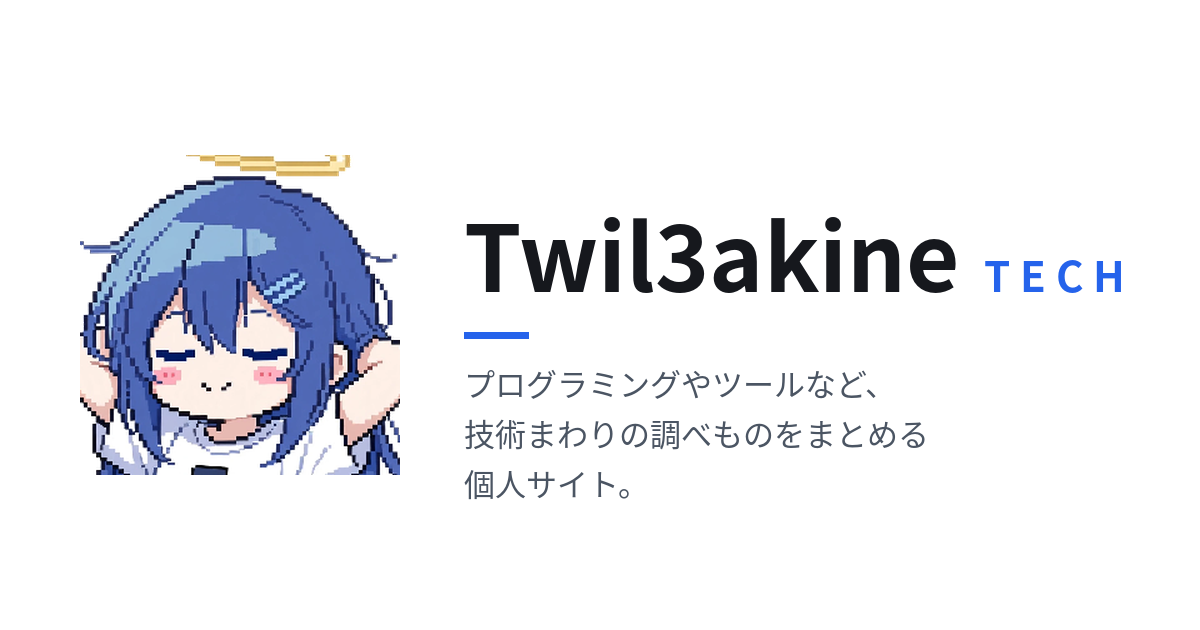
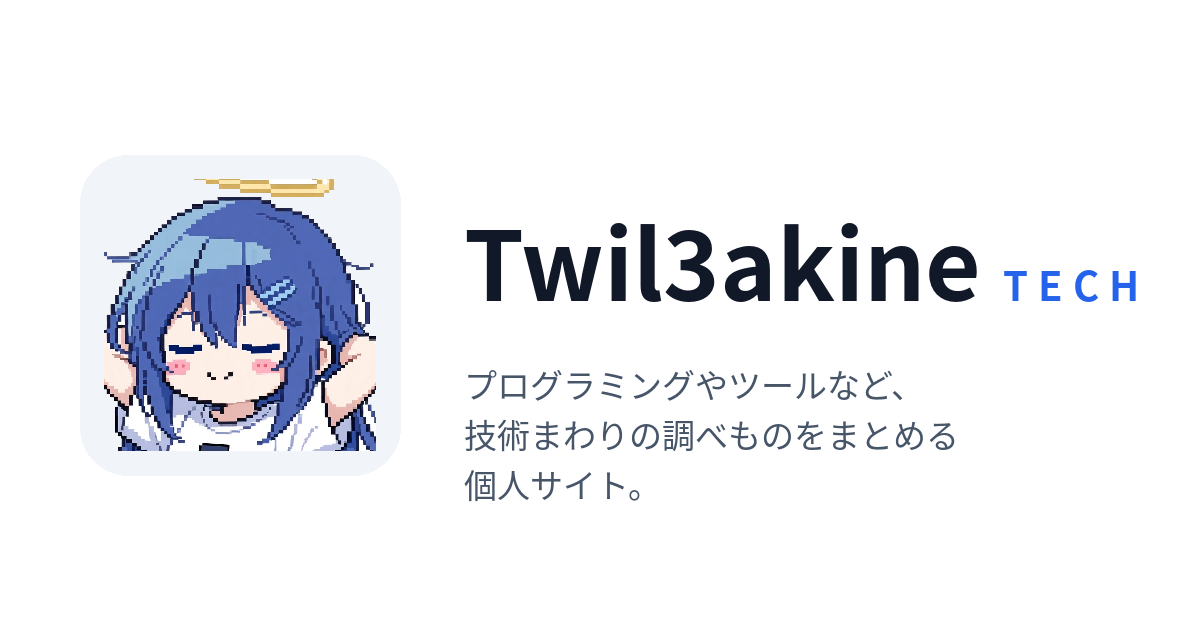
Rework OGP card balance and add per-article OGP images

diff --git a/templates/base.html b/templates/base.html
@@ -31,11 +31,13 @@
 <meta property="og:title" content="{{ og_title }}">
 <meta property="og:description" content="{{ og_description }}">
 <meta property="og:url" content="{{ og_url }}">
-<meta property="og:image" content="{{ get_url(path='img/ogp.png') }}">
+{% set og_image = 'img/ogp.png' %}
+{% if page is defined and page.extra is defined and page.extra.ogp %}{% set og_image = page.extra.ogp %}{% endif %}
+<meta property="og:image" content="{{ get_url(path=og_image) }}">
 <meta name="twitter:card" content="summary_large_image">
 <meta name="twitter:title" content="{{ og_title }}">
 <meta name="twitter:description" content="{{ og_description }}">
-<meta name="twitter:image" content="{{ get_url(path='img/ogp.png') }}">
+<meta name="twitter:image" content="{{ get_url(path=og_image) }}">
 <link rel="icon" type="image/png" href="{{ get_url(path='favicon.png') }}">
 <link rel="apple-touch-icon" href="{{ get_url(path='apple-touch-icon.png') }}">
 <link rel="preconnect" href="https://fonts.googleapis.com">

diff --git a/content/books/kiso-kara-manabu-quantum-computing.md b/content/books/kiso-kara-manabu-quantum-computing.md
@@ -2,6 +2,9 @@
 title = "量子コンピューティングのおすすめ入門書『基礎から学ぶ 量子コンピューティング』"
 description = "イジングマシンを中心に据えた量子コンピューティングの入門書。目次と内容、注意点と良い点、ゲート型中心の入門書との違いを整理する。"
 date = 2026-11-09
+
+[extra]
+ogp = "img/ogp/books-kiso-kara-manabu-quantum-computing.png"
 +++
 
 量子コンピューティングをこれから学びたい人が最初に手に取る一冊として、いちばんいいと考えている本である。

diff --git a/content/books/jissen-rust-2e.md b/content/books/jissen-rust-2e.md
@@ -2,6 +2,9 @@
 title = "『実践Rustプログラミング入門 第2版』は作りながら学ぶ実践型の入門書"
 description = "入門・実践・発展の3部構成で、Webアプリ、WebAssembly、Tauri、組み込みまで作る入門書。目次と内容、注意点と良い点、ほかのRust書籍との比較を整理する。"
 date = 2026-11-11
+
+[extra]
+ogp = "img/ogp/books-jissen-rust-2e.png"
 +++
 
 文法の解説から始めて、実際にプログラムを作る章を中心に置く実践寄りの入門書である。

diff --git a/content/books/zero-kara-manabu-rust.md b/content/books/zero-kara-manabu-rust.md
@@ -2,6 +2,9 @@
 title = "『ゼロから学ぶRust』はシステムプログラミングを実装で学ぶ入門書"
 description = "文法の解説のあと、正規表現エンジン、シェル、デバッガを実装する9章構成の入門書。目次と内容、注意点と良い点、ほかのRust書籍との比較を整理する。"
 date = 2026-11-11
+
+[extra]
+ogp = "img/ogp/books-zero-kara-manabu-rust.png"
 +++
 
 通読して学ぶタイプの入門書で、後半は作るものが主役になる。

diff --git a/content/books/programming-rust-2e.md b/content/books/programming-rust-2e.md
@@ -2,6 +2,9 @@
 title = "『プログラミングRust 第2版』はRustを体系的に学ぶための良書"
 description = "全23章・688頁で言語仕様から並行・非同期・FFIまでを扱う大部の解説書。目次と内容、注意点と良い点、ほかのRust書籍との比較を整理する。"
 date = 2026-11-11
+
+[extra]
+ogp = "img/ogp/books-programming-rust-2e.png"
 +++
 
 Rust の日本語書籍の中で、言語そのものを最も広く扱う部類の一冊である。

diff --git a/content/web/http-basics.md b/content/web/http-basics.md
@@ -5,6 +5,9 @@ date = 2026-11-11
 
 [taxonomies]
 tags = ["HTTP"]
+
+[extra]
+ogp = "img/ogp/web-http-basics.png"
 +++
 
 HTTP は、ブラウザやプログラムがサーバーとデータをやり取りするための取り決めである。クライアントがリクエストを送り、サーバーがレスポンスを返す。Web ページの表示だけでなく、API の呼び出しでも同じ仕組みを使う。

diff --git a/content/tools/git-branch.md b/content/tools/git-branch.md
@@ -5,6 +5,9 @@ date = 2026-11-11
 
 [taxonomies]
 tags = ["Git"]
+
+[extra]
+ogp = "img/ogp/tools-git-branch.png"
 +++
 
 ブランチは変更を別の流れとして分けるための名前である。本体のブランチを直接変更せず、作業用ブランチでコミットを積み、終わったら本体へマージする流れを覚えると、途中の変更を分けて管理できる。

diff --git a/content/tools/terminal-search.md b/content/tools/terminal-search.md
@@ -5,6 +5,9 @@ date = 2026-11-11
 
 [taxonomies]
 tags = ["ターミナル"]
+
+[extra]
+ogp = "img/ogp/tools-terminal-search.png"
 +++
 
 探したいものがファイル名なのか、ファイルの中身なのかで使うコマンドが変わる。名前や更新日時からファイルを探す場合は `find`、ファイルの中の文字列を探す場合は `grep` または `rg` を使う。

diff --git a/content/errors/e0502.md b/content/errors/e0502.md
@@ -4,6 +4,7 @@ description = "E0502 が起きる理由を、借用の寿命と NLL の考え方
 date = 2026-11-11
 
 [extra]
+ogp = "img/ogp/errors-e0502.png"
 rust = "1.99.1"
 level = 2
 
